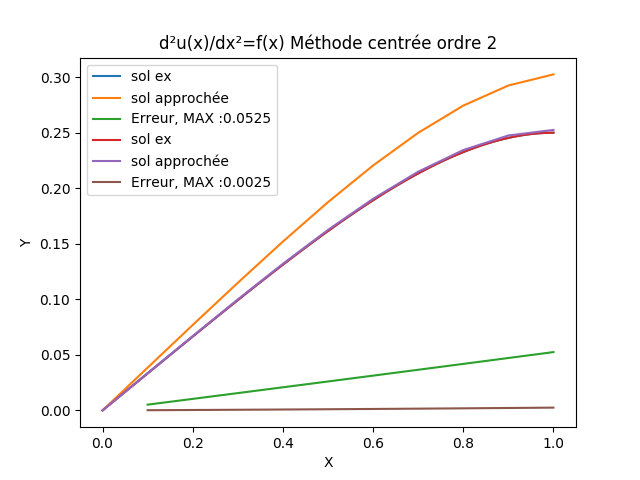
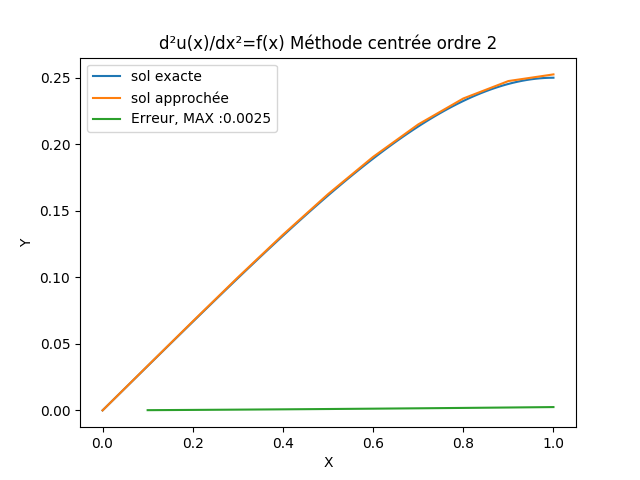
Fix missing clear screen

diff --git a/TP1_error.py b/TP1_error.py
@@ -52,7 +52,6 @@ def Cond_graph(N):
     show()
     
 def Error_meth(m):
-    clf()
     Ns=9
     ug=0
 
@@ -67,6 +66,7 @@ def Error_meth(m):
     A=1./h/h*A
 
     for meth in [1,2]:
+        clf()
         # Second membre
         # b = ... (plus loin, exercice 3)
         b = f(Xh, m)
@@ -89,7 +89,7 @@ def Error_meth(m):
         Uh = concatenate((array([ug]),Uh))
         # on complete le vecteur solution avec la valeur ug en 0
         # On trace le graphe de la fonction solex sur un maillage fin de 100 points
-        plot(linspace(0,1,100),solex(linspace(0,1,100), ug, m), label = 'sol ex')
+        plot(linspace(0,1,100),solex(linspace(0,1,100), ug, m), label = 'sol exacte')
 
         # et le graphe de la solution approchée obtenue
         if (meth == 1):
